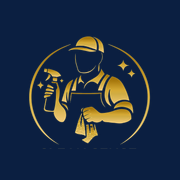
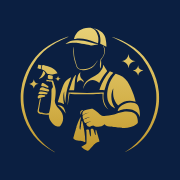
Align the website with the approved brand (Design System v1.9)
- Approved logo (vector) for header, icons and new share images; old logo assets removed.
- Cairo (Arabic) and Montserrat (English) fonts.
- Correct TikTok/Instagram handles, six cities (Khobar, Dammam, Dhahran primary),
  working hours in footer and structured data, legal name and unified number.
- Golden Guarantee text exactly as approved (AR) with English translation.
- New AC cleaning service page; building O&M marked as expanding.
- Removed unverifiable stats and the invented testimonials; the section now points
  to the real work on Instagram and TikTok until real reviews are approved.
- Site type check no longer scans the dashboard; partner name in the demo.

Claude-Session: https://claude.ai/code/session_01WUU27GpDzYpEzGb9wAgQWC

diff --git a/src/i18n/ui.ts b/src/i18n/ui.ts
@@ -11,7 +11,7 @@ export const servicePath = (lang: Lang, slug: string) => `${prefix(lang)}/servic
 export const ui = {
   ar: {
     meta: {
-      title: 'كلين سنس | شركة تنظيف احترافية في الخبر والدمام والجبيل',
+      title: 'كلين سنس | شركة تنظيف احترافية في الخبر والدمام والظهران',
       description:
         'كلين سنس — تنظيف عميق للمنازل والفلل، تنظيف ما بعد البناء، الكنب والموكيت، الخزانات، وعقود تنظيف وتشغيل العمائر في المنطقة الشرقية. احجز عبر واتساب.',
     },
@@ -43,13 +43,13 @@ export const ui = {
       visit: 'مرحبًا كلين سنس، أبغى أطلب معاينة مجانية.',
     },
     hero: {
-      badge: 'نخدم الخبر • الدمام • الجبيل',
+      badge: 'نخدم الخبر • الدمام • الظهران',
       title1: 'نظافة فندقية لبيتك،',
       title2: 'تحسّها من أول زيارة.',
-      sub: 'فريق مدرّب، مواد آمنة، وضمان إعادة العمل — للمنازل والفلل والعمائر في المنطقة الشرقية.',
+      sub: 'فريق مدرّب، مواد آمنة، والضمان الذهبي — للمنازل والفلل والعمائر في المنطقة الشرقية.',
       primary: 'احجز عبر واتساب',
       secondary: 'احسب السعر التقديري',
-      points: ['المواد والمعدات علينا', 'ضمان إعادة العمل', 'فريق مدرّب وموثوق'],
+      points: ['المواد والمعدات علينا', 'الضمان الذهبي', 'فريق مدرّب وموثوق'],
       card: {
         title: 'احجز في أقل من دقيقة',
         steps: ['اختر الخدمة', 'حدد الموعد', 'نأكد لك على واتساب'],
@@ -144,11 +144,11 @@ export const ui = {
         { icon: 'scan-search', title: 'منهجية لكل سطح', text: 'أدوات ومواد مخصصة للرخام والخشب والزجاج والأقمشة.' },
         { icon: 'receipt', title: 'سعر واضح قبل البدء', text: 'تعرف السعر قبل ما نبدأ — بدون رسوم مخفية.' },
         { icon: 'calendar-check', title: 'التزام بالمواعيد', text: 'نوصل في الموعد المتفق عليه ونبلغك أول بأول.' },
-        { icon: 'shield-check', title: 'الضمان الذهبي', text: 'إذا ما رضيت عن جزء من الشغل، نرجع ونعيده بدون تكلفة.' },
+        { icon: 'shield-check', title: 'الضمان الذهبي', text: 'ما نعتبر الشغل منتهي إلا بعد رضاك، وأي ملاحظة ضمن النطاق نعالجها خلال 24 ساعة من التسليم بدون تكلفة.' },
       ],
       guarantee: {
         title: 'الضمان الذهبي',
-        text: 'إذا لاحظت أي جزء ما وصل للمستوى المتفق عليه، بلّغنا خلال ٢٤ ساعة ونرجع نعيده — بدون أي تكلفة إضافية.',
+        text: 'لا نعتبر العمل منتهياً إلا بعد رضاك. أي ملاحظة ضمن نطاق العمل المتفق عليه نعالجها مباشرة دون أي تكلفة إضافية، خلال 24 ساعة من تاريخ التسليم.',
       },
     },
     business: {
@@ -165,14 +165,10 @@ export const ui = {
       cta2: 'تفاصيل التشغيل والصيانة',
     },
     reviews: {
-      eyebrow: 'آراء العملاء',
-      title: 'عملاؤنا يقولون',
-      items: [
-        { text: 'نظّفوا الفيلا بعد التشطيب وشالوا كل آثار الدهان والغبار بدقة. استلمناها جاهزة للسكن.', who: 'عميل — فيلا', city: 'الدمام', service: 'تنظيف ما بعد البناء' },
-        { text: 'نتعامل معهم شهريًا للتنظيف العميق. الفريق محترم وملتزم بالموعد، والفرق واضح من أول زيارة.', who: 'عميلة — شقة', city: 'الخبر', service: 'تنظيف عميق' },
-        { text: 'غسلوا الكنب والموكيت ورجعت كأنها جديدة وبريحة حلوة. خدمة مرتبة من الحجز للتسليم.', who: 'عميل — منزل', city: 'الجبيل', service: 'الكنب والموكيت' },
-      ],
-      more: 'شوف شغلنا الحقيقي — قبل وبعد',
+      eyebrow: 'من الميدان',
+      title: 'شغلنا الحقيقي',
+      items: [] as { text: string; who: string; city: string; service: string }[],
+      more: 'صور وفيديوهات من مواقع عملنا الفعلية، أول بأول على حساباتنا:',
     },
     areas: {
       eyebrow: 'مناطق الخدمة',
@@ -189,7 +185,7 @@ export const ui = {
         { q: 'هل السعر في الحاسبة نهائي؟', a: 'السعر تقديري ويعطيك فكرة واضحة. السعر النهائي نأكده بعد الصور أو المعاينة وقبل البدء — بدون مفاجآت.' },
         { q: 'هل لازم أكون موجود في البيت؟', a: 'لا. كثير من عملائنا يسلموننا المفتاح ويرجعون لبيت نظيف.' },
         { q: 'هل عمالتكم مدربة وموثوقة؟', a: 'نعم، كل فرد في الفريق يمر بتدريب على معايير النظافة والضيافة، ويعمل تحت إشراف.' },
-        { q: 'وش هو الضمان الذهبي؟', a: 'إذا ما كنت راضي عن أي جزء من الشغل، بلّغنا خلال ٢٤ ساعة ونرجع نعيده بدون تكلفة.' },
+        { q: 'وش هو الضمان الذهبي؟', a: 'لا نعتبر العمل منتهياً إلا بعد رضاك. أي ملاحظة ضمن نطاق العمل المتفق عليه نعالجها مباشرة دون أي تكلفة إضافية، خلال 24 ساعة من تاريخ التسليم.' },
         { q: 'هل عندكم عقود للعمائر والمجمعات؟', a: 'نعم، عقود شهرية وسنوية للتنظيف والتشغيل والصيانة، مع معاينة مجانية وعرض سعر مفصل.' },
       ],
     },
@@ -234,7 +230,7 @@ export const ui = {
 
   en: {
     meta: {
-      title: 'Clean Sense | Professional Cleaning in Al Khobar, Dammam & Jubail',
+      title: 'Clean Sense | Professional Cleaning in Al Khobar, Dammam & Dhahran',
       description:
         'Clean Sense — deep cleaning for homes and villas, post-construction cleaning, sofa and carpet cleaning, water tanks and building cleaning & O&M contracts across the Eastern Province. Book on WhatsApp.',
     },
@@ -266,13 +262,13 @@ export const ui = {
       visit: 'Hello Clean Sense, I would like to request a free site visit.',
     },
     hero: {
-      badge: 'Serving Al Khobar • Dammam • Jubail',
+      badge: 'Serving Al Khobar • Dammam • Dhahran',
       title1: 'Hotel-standard cleaning',
       title2: 'you can feel.',
-      sub: 'Trained teams, safe products and a re-clean guarantee — for homes, villas and buildings across the Eastern Province.',
+      sub: 'Trained teams, safe products and the Golden Guarantee — for homes, villas and buildings across the Eastern Province.',
       primary: 'Book on WhatsApp',
       secondary: 'Get an instant estimate',
-      points: ['Supplies & equipment included', 'Re-clean guarantee', 'Trained, vetted team'],
+      points: ['Supplies & equipment included', 'Golden Guarantee', 'Trained, vetted team'],
       card: {
         title: 'Book in under a minute',
         steps: ['Choose a service', 'Pick a time', 'We confirm on WhatsApp'],
@@ -367,11 +363,11 @@ export const ui = {
         { icon: 'scan-search', title: 'A method for every surface', text: 'The right tools for marble, wood, glass and fabric.' },
         { icon: 'receipt', title: 'Clear price up front', text: 'You know the price before we start — no hidden fees.' },
         { icon: 'calendar-check', title: 'On time, every time', text: 'We arrive at the agreed time and keep you updated.' },
-        { icon: 'shield-check', title: 'Golden guarantee', text: 'Not happy with part of the job? We come back and redo it free.' },
+        { icon: 'shield-check', title: 'Golden guarantee', text: 'The job is not finished until you are satisfied; notes within scope are fixed within 24 hours of handover, free.' },
       ],
       guarantee: {
         title: 'The Golden Guarantee',
-        text: 'If any part of the job is not up to the agreed standard, tell us within 24 hours and we will come back and redo it — at no extra cost.',
+        text: "We don't consider the job finished until you're satisfied. Any note within the agreed scope of work is fixed right away at no extra cost, within 24 hours of handover.",
       },
     },
     business: {
@@ -388,14 +384,10 @@ export const ui = {
       cta2: 'Operation & maintenance details',
     },
     reviews: {
-      eyebrow: 'Client feedback',
-      title: 'What our clients say',
-      items: [
-        { text: 'They cleaned our villa after the fit-out and removed every trace of paint and dust. We moved straight in.', who: 'Client — villa', city: 'Dammam', service: 'Post-construction' },
-        { text: 'We book them monthly for deep cleaning. Respectful, punctual team — you notice the difference from the first visit.', who: 'Client — apartment', city: 'Al Khobar', service: 'Deep cleaning' },
-        { text: 'Our sofa and carpet came back looking new and smelling fresh. Smooth from booking to hand-over.', who: 'Client — home', city: 'Jubail', service: 'Sofa & carpet' },
-      ],
-      more: 'See our real work — before & after',
+      eyebrow: 'From the field',
+      title: 'Our real work',
+      items: [] as { text: string; who: string; city: string; service: string }[],
+      more: 'Photos and videos from our actual job sites, on our accounts:',
     },
     areas: {
       eyebrow: 'Service areas',
@@ -412,7 +404,7 @@ export const ui = {
         { q: 'Is the calculator price final?', a: 'It is an estimate that gives you a clear idea. The final price is confirmed from photos or a site visit, before we start — no surprises.' },
         { q: 'Do I need to be at home?', a: 'No. Many clients hand us the key and come back to a clean home.' },
         { q: 'Is your team trained and trustworthy?', a: 'Yes. Every team member is trained in cleaning and hospitality standards and works under supervision.' },
-        { q: 'What is the Golden Guarantee?', a: 'If you are not happy with any part of the job, tell us within 24 hours and we will redo it at no cost.' },
+        { q: 'What is the Golden Guarantee?', a: "We don't consider the job finished until you're satisfied. Any note within the agreed scope of work is fixed right away at no extra cost, within 24 hours of handover." },
         { q: 'Do you offer contracts for buildings and compounds?', a: 'Yes — monthly and annual cleaning, operation and maintenance contracts, with a free site visit and detailed quotation.' },
       ],
     },

diff --git a/src/data/services.ts b/src/data/services.ts
@@ -22,6 +22,8 @@ export interface Service {
   category: Category;
   image?: ImageMetadata;
   featured?: boolean;
+  /** Offered on request while the team expands (shown with a note). */
+  expanding?: boolean;
   ar: Copy;
   en: Copy;
 }
@@ -375,6 +377,47 @@ export const SERVICES: Service[] = [
     },
   },
   {
+    slug: 'ac-cleaning',
+    icon: 'air-vent',
+    category: 'specialised',
+    ar: {
+      name: 'تنظيف المكيفات',
+      short: 'غسيل وتنظيف المكيفات السبليت والشباك من الغبار والأوساخ المتراكمة.',
+      intro:
+        'المكيف يشتغل أغلب السنة في الشرقية، ومع الوقت يتجمع الغبار في الفلاتر والوحدة الداخلية ويقل التبريد. ننظف الفلاتر والوحدة الداخلية بأدوات مخصصة مع حماية المكان حول المكيف، ونقدر نضيفها مع تنظيف البيت في نفس الزيارة.',
+      includes: [
+        'فك الفلاتر وغسلها',
+        'تنظيف الوحدة الداخلية وفتحات الهواء',
+        'حماية الجدار والأرضية أثناء التنظيف',
+        'تنظيف الغطاء الخارجي للوحدة',
+        'تجربة التشغيل بعد الانتهاء',
+      ],
+      ideal: ['الشقق والفلل', 'قبل الصيف', 'مع التنظيف العميق أو بعد التشطيب'],
+      faqs: [
+        { q: 'هل تنظفون المكيفات مع تنظيف البيت؟', a: 'نعم، تقدر تضيفها لنفس الحجز ويتم تحديد العدد في عرض السعر.' },
+        { q: 'كم يستغرق تنظيف المكيف؟', a: 'حسب نوع المكيف وحالته، ونوضح المدة في عرض السعر.' },
+      ],
+    },
+    en: {
+      name: 'AC Cleaning',
+      short: 'Washing and cleaning split and window AC units of built-up dust and dirt.',
+      intro:
+        'In the Eastern Province the AC runs most of the year, and dust builds up in the filters and indoor unit, reducing cooling. We clean the filters and indoor unit with dedicated tools while protecting the area around it — and can add it to a home clean in the same visit.',
+      includes: [
+        'Filters removed and washed',
+        'Indoor unit and air vents cleaned',
+        'Wall and floor protected while cleaning',
+        'Unit cover cleaned',
+        'Test run after cleaning',
+      ],
+      ideal: ['Apartments and villas', 'Before summer', 'Together with a deep or post-construction clean'],
+      faqs: [
+        { q: 'Can you clean the ACs during a home clean?', a: 'Yes, add them to the same booking; the number of units is set in the quotation.' },
+        { q: 'How long does one AC take?', a: 'It depends on the type and condition; the quotation states the duration.' },
+      ],
+    },
+  },
+  {
     slug: 'water-tank-cleaning',
     icon: 'droplets',
     category: 'property',
@@ -505,6 +548,7 @@ export const SERVICES: Service[] = [
     slug: 'building-operation-maintenance',
     icon: 'wrench',
     category: 'property',
+    expanding: true,
     ar: {
       name: 'تشغيل وصيانة المباني',
       short: 'إدارة تشغيلية متكاملة للمبنى: نظافة، متابعة، وصيانة دورية بعقد واحد.',
@@ -521,7 +565,7 @@ export const SERVICES: Service[] = [
       ideal: ['العمائر السكنية', 'المجمعات السكنية', 'اتحادات الملاك', 'المباني التجارية الصغيرة والمتوسطة'],
       faqs: [
         { q: 'وش يشمل عقد التشغيل والصيانة؟', a: 'نحدد النطاق معك بعد معاينة المبنى — من النظافة فقط إلى تشغيل كامل مع صيانة وقائية.' },
-        { q: 'هل المعاينة مجانية؟', a: 'نعم، نزور المبنى ونرسل لك عرض سعر مفصّل بدون أي التزام.' },
+        { q: 'هل الخدمة متاحة الحين؟', a: 'الخدمة قيد التوسع، ونستقبل الطلبات ونرتب معاينة للمبنى حسب النطاق والموقع.' },
       ],
     },
     en: {
@@ -540,7 +584,7 @@ export const SERVICES: Service[] = [
       ideal: ['Residential buildings', 'Residential compounds', "Owners' associations (HOA)", 'Small and mid-size commercial buildings'],
       faqs: [
         { q: 'What does an O&M contract include?', a: 'We define the scope with you after a site visit — from cleaning only to full operation with preventive maintenance.' },
-        { q: 'Is the site visit free?', a: 'Yes. We visit the building and send a detailed quotation with no obligation.' },
+        { q: 'Is the service available now?', a: 'The service is expanding; we take requests and arrange a site visit depending on scope and location.' },
       ],
     },
   },

diff --git a/src/data/site.ts b/src/data/site.ts
@@ -9,24 +9,35 @@ export const SITE = {
   phone: '+966537717716',
   phoneDisplay: '053 771 7716',
   email: 'info@cleansense.co',
-  instagram: 'https://www.instagram.com/clean_sense',
-  tiktok: 'https://www.tiktok.com/@clean_sense',
+  instagram: 'https://www.instagram.com/Clean_sense',
+  instagramHandle: '@Clean_sense',
+  tiktok: 'https://www.tiktok.com/@Cleansense25',
+  tiktokHandle: '@Cleansense25',
+  // Working hours (approved): Saturday–Thursday 8 am – 10 pm; Friday on request.
+  hours: { ar: 'السبت – الخميس: 8 صباحاً – 10 مساءً · الجمعة حسب الطلب', en: 'Saturday – Thursday: 8 am – 10 pm · Friday on request' },
+  openingHours: { days: ['Saturday', 'Sunday', 'Monday', 'Tuesday', 'Wednesday', 'Thursday'], opens: '08:00', closes: '22:00' },
+  legalName: { ar: 'مؤسسة كلين سنس', en: 'Clean Sense Est.' },
+  unifiedNumber: '7049749042',
   region: { ar: 'المنطقة الشرقية', en: 'Eastern Province' },
   // Cities currently served. Add more here and they appear everywhere.
+  // primary: main service area; the others are served too.
   cities: [
-    { id: 'khobar', ar: 'الخبر', en: 'Al Khobar' },
-    { id: 'dammam', ar: 'الدمام', en: 'Dammam' },
-    { id: 'jubail', ar: 'الجبيل', en: 'Jubail' },
+    { id: 'khobar', ar: 'الخبر', en: 'Al Khobar', primary: true },
+    { id: 'dammam', ar: 'الدمام', en: 'Dammam', primary: true },
+    { id: 'dhahran', ar: 'الظهران', en: 'Dhahran', primary: true },
+    { id: 'jubail', ar: 'الجبيل', en: 'Jubail', primary: false },
+    { id: 'ras_tanura', ar: 'رأس تنورة', en: 'Ras Tanura', primary: false },
+    { id: 'qatif', ar: 'القطيف', en: 'Qatif', primary: false },
   ],
 } as const;
 
-// Headline numbers shown in the trust bar. Keep these truthful —
-// update them as the business grows.
+// Headline facts shown in the trust bar. Only verifiable facts: no client counts or
+// percentages until the owners approve real numbers.
 export const STATS = [
-  { value: '+500', ar: 'عميل خدمناهم', en: 'Clients served' },
-  { value: '12', ar: 'خدمة متخصصة', en: 'Specialised services' },
-  { value: '3', ar: 'مدن في الشرقية', en: 'Cities covered' },
-  { value: '100%', ar: 'ضمان إعادة العمل', en: 'Re-clean guarantee' },
+  { value: '24h', ar: 'الضمان الذهبي بعد التسليم', en: 'Golden Guarantee after handover' },
+  { value: '6', ar: 'مدن في الشرقية', en: 'Cities in the Eastern Province' },
+  { value: '8–10', ar: 'من 8 ص إلى 10 م', en: '8 am to 10 pm' },
+  { value: '0%', ar: 'بدون ضريبة مضافة', en: 'No VAT added' },
 ] as const;
 
 // Estimate calculator — same numbers and formula as the previous live site.

diff --git a/dashboard/web/src/demo.ts b/dashboard/web/src/demo.ts
@@ -37,7 +37,7 @@ const settings: Record<string, string> = {
 
 const d = (offset: number) => new Date(Date.now() + offset * 864e5).toISOString().slice(0, 10);
 
-tables.settings = Object.entries({ ...settings, 'company.partners': 'معاذ، الشريك الثاني', 'docs.invoice_due_days': '7', 'docs.quote_valid_days': '14', 'docs.show_bank': 'yes', 'bank.name': 'بنك تجريبي', 'bank.account_name': 'مؤسسة كلين سنس', 'bank.iban': 'SA00 0000 0000 0000 0000 0000', 'docs.default_terms_ar': 'السعر شامل المواد والعمالة حسب نطاق العمل المذكور أعلاه. أي بند خارج النطاق يُحتسب بشكل منفصل. الدفع: دفعة مقدمة والمتبقي عند التسليم حسب الاتفاق.' }).map(([key, value]) => ({ key, value }));
+tables.settings = Object.entries({ ...settings, 'company.partners': 'معاذ، عبدالرحمن', 'docs.invoice_due_days': '7', 'docs.quote_valid_days': '14', 'docs.show_bank': 'yes', 'bank.name': 'بنك تجريبي', 'bank.account_name': 'مؤسسة كلين سنس', 'bank.iban': 'SA00 0000 0000 0000 0000 0000', 'docs.default_terms_ar': 'السعر شامل المواد والعمالة حسب نطاق العمل المذكور أعلاه. أي بند خارج النطاق يُحتسب بشكل منفصل. الدفع: دفعة مقدمة والمتبقي عند التسليم حسب الاتفاق.' }).map(([key, value]) => ({ key, value }));
 
 /** Build the sample data through the real business rules, so every link and number is consistent. */
 async function seed() {
@@ -95,7 +95,7 @@ async function seed() {
   await S.createRecord(ctx, 'workers', { name: 'عامل تجريبي 2', role: 'فني مكيفات', employment_type: 'daily', status: 'active' });
   // Opening balances as they are today, and partner movements
   await S.treasuryRecord(ctx, { kind: 'capital_in', account: 'bank', amount: 3000, partner: 'معاذ', date: d(-15), notes: 'شراء معدات' });
-  await S.treasuryRecord(ctx, { kind: 'drawing', account: 'cash', amount: 300, partner: 'الشريك الثاني', date: d(-4) });
+  await S.treasuryRecord(ctx, { kind: 'drawing', account: 'cash', amount: 300, partner: 'عبدالرحمن', date: d(-4) });
   await S.createRecord(ctx, 'tasks', { title: 'تجهيز مواد الدور الخامس', assigned_worker: 'عامل تجريبي 1', project: prj.name, due_date: d(1), status: 'open' });
   // Last: today's real balances, so everything recorded before them is reconciled.
   await S.treasurySetBalance(ctx, { account: 'bank', actual: 8000, date: d(0), notes: 'الرصيد الفعلي حسب كشف البنك' });

diff --git a/src/lib/schema.ts b/src/lib/schema.ts
@@ -15,12 +15,14 @@ export function businessSchema(lang: Lang) {
     slogan: SITE.slogan.en,
     url: abs(homePath(lang)),
     logo: abs('/brand/logo-512.png'),
-    image: abs(lang === 'ar' ? '/og-ar.jpg' : '/og-en.jpg'),
+    image: abs(lang === 'ar' ? '/og-ar.png' : '/og-en.png'),
     telephone: SITE.phone,
     email: SITE.email,
     address: { '@type': 'PostalAddress', addressRegion: SITE.region[lang], addressCountry: 'SA' },
     areaServed: SITE.cities.map((c) => ({ '@type': 'City', name: c[lang] })),
     sameAs: [SITE.instagram, SITE.tiktok],
+    legalName: SITE.legalName[lang],
+    openingHoursSpecification: [{ '@type': 'OpeningHoursSpecification', dayOfWeek: SITE.openingHours.days, opens: SITE.openingHours.opens, closes: SITE.openingHours.closes }],
     contactPoint: {
       '@type': 'ContactPoint',
       telephone: SITE.phone,

diff --git a/src/styles/global.css b/src/styles/global.css
@@ -38,7 +38,9 @@
   --header-h: 68px;
   --mobile-bar-h: 72px;
 
-  --font: 'IBM Plex Sans Arabic', system-ui, -apple-system, 'Segoe UI', Tahoma, sans-serif;
+  /* Brand fonts (Design System v1.9): Cairo for Arabic, Montserrat for English. */
+  --font: 'Cairo', system-ui, -apple-system, 'Segoe UI', Tahoma, sans-serif;
+  --font-en: 'Montserrat', 'Cairo', system-ui, sans-serif;
   --ease: cubic-bezier(0.2, 0.7, 0.2, 1);
 }
 
@@ -77,6 +79,9 @@ html {
 body {
   margin: 0;
   font-family: var(--font);
+}
+html[lang='en'] body {
+  font-family: var(--font-en);
   font-size: 16px;
   line-height: 1.75;
   color: var(--text);

diff --git a/scripts/preview-hub.py b/scripts/preview-hub.py
@@ -13,7 +13,7 @@ rows = '\n'.join(
 html = f'''<title>معاينة موقع كلين سنس</title>
 <link rel="preconnect" href="https://fonts.googleapis.com">
 <link rel="preconnect" href="https://fonts.gstatic.com" crossorigin>
-<link rel="stylesheet" href="https://fonts.googleapis.com/css2?family=IBM+Plex+Sans+Arabic:wght@400;600;700&display=swap">
+<link rel="stylesheet" href="https://fonts.googleapis.com/css2?family=Cairo:wght@400;600;700&display=swap">
 <style>
   :root {{
     color-scheme: dark;
@@ -24,7 +24,7 @@ html = f'''<title>معاينة موقع كلين سنس</title>
   }}
   * {{ box-sizing: border-box; }}
   body {{ margin: 0; background: var(--navy); color: var(--text);
-    font-family: 'IBM Plex Sans Arabic', system-ui, Tahoma, sans-serif; font-size: 16px; line-height: 1.7; }}
+    font-family: 'Cairo', system-ui, Tahoma, sans-serif; font-size: 16px; line-height: 1.7; }}
   .wrap {{ max-width: 760px; margin: 0 auto; padding-inline: 18px; padding-block: 32px 56px; display: grid; gap: 28px; }}
   header {{ display: flex; align-items: center; gap: 14px; }}
   header img {{ height: 56px; width: auto; }}
@@ -57,7 +57,7 @@ html = f'''<title>معاينة موقع كلين سنس</title>
 
 <div class="wrap" dir="rtl" lang="ar">
   <header>
-    <img src="site/brand/emblem.webp" alt="">
+    <img src="site/brand/logo-mark.svg" alt="">
     <div class="brand"><b>CLEAN SENSE</b><span>معاينة التصميم الجديد</span></div>
   </header>
 
